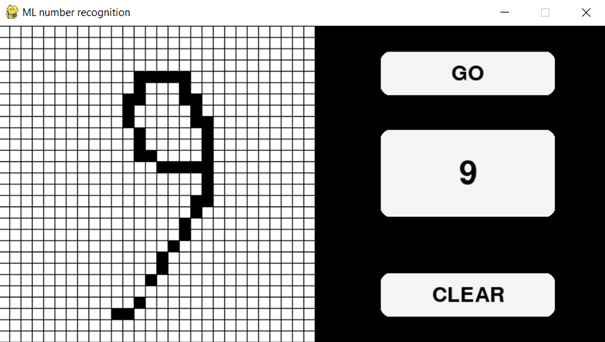
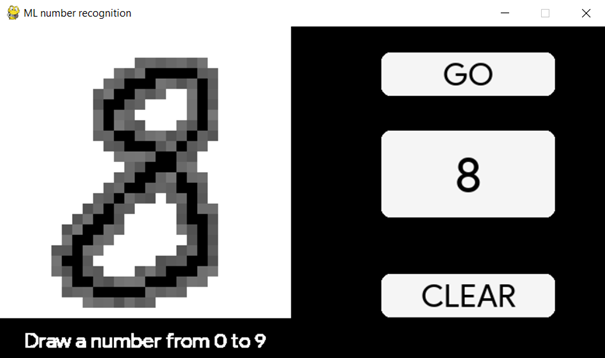
Add shading to drawing and helper text under grid

diff --git a/window.py b/window.py
@@ -6,9 +6,13 @@ import sys
 from main import neur
 
 
+#Screen
+HEIGHT = 385
+WIDTH = 700
+
 #Global variables for grid and pixel management
 CELL_SIZE = 12
-GRID_SPACE = 1
+GRID_SPACE = 0
 
 #Colors
 BLACK = (0, 0, 0)
@@ -16,44 +20,43 @@ WHITE = (255, 255, 255)
 OFF_WHITE = (245, 245, 245)
 GRAY = (200, 200, 200)
 
-#TODO Shading around a pixel for more realistic numbers
+#Font
+font_path = "data/ProductSans-Regular.ttf"
+
 class Pixel():
     def __init__(self, id):
         self.id = id
-        self.value = 0
-        self.connections = 0
+        self.value = 0.0
 
-    def clicked(self, data, i, j):
-        self.value = random.uniform(0.95, 1.0).double()
-        check_connections(data, i, j)
+    def clicked(self, data, grid, grid_x, grid_y):
+        self.value = random.uniform(0.90, 1.0)
+        grid[grid_y][grid_x] = BLACK
 
-    #Not in use yet: will be for shading the surrounding pixels
-    def check_connections(self):
-        if i > 0 and i < 27: a = True
-        if j > 0 and j < 27: b = True
-        # Chech lower, upper connection
-        if a:
-            if data[i-1][j].value > 0:
-                self.connections += 1
-            if data[i+1][j].value > 0:
-                self.connections += 1
-        # Check side connection
-        if b:
-            if data[i][j-1].value > 0:
-                self.connections += 1
-            if data[i][j+1].value > 0:
-                self.connections += 1
-        #Check diagonal connection
-        if a and b:
-            if data[i-1][j - 1].value > 0:
-                self.connections += 1
-            if data[i-1][j + 1].value > 0:
-                self.connections += 1
-            if data[i+1][j - 1].value > 0:
-                self.connections += 1
-            if data[i+1][j + 1].value > 0:
-                self.connections += 1
-        return self.connections
+        for i in range(grid_y-1, grid_y+2):
+            for j in range(grid_x-1, grid_x+2):
+                try:
+                    pixel_id = i * 28 + j
+                    pixel = data[0][pixel_id]
+                except IndexError:
+                    continue
+
+                if pixel.value == 0.0:
+                    pixel.value = random.uniform(0.4, 0.6)
+                if i != grid_y or j != grid_x:
+                    self.add_color_to_neighbour(pixel, grid, pixel_id)
+
+    def add_color_to_neighbour(self, pixel, grid, pixel_id):
+        #So the sides don't spill to the other side
+        if pixel.value > 0.89 or pixel_id % 28 == 0 or pixel_id % 28 == 27 \
+                and self.id - 28 != pixel_id and self.id + 28 != pixel_id:
+            return
+
+        graycolor_value = GRAY[0] * pixel.value
+        color = graycolor_value, graycolor_value, graycolor_value
+        row = int(pixel_id / 28)
+        column = int(pixel_id % 28)
+        grid[row][column] = color
+
 
 def create_data():
     #Create the numpy array
@@ -72,7 +75,7 @@ def draw_grid(screen, grid):
             pygame.draw.rect(screen, grid[row][column], rect)
 
 def draw_button(screen, position: tuple, height, title, t_size):
-    font = pygame.font.Font(None, t_size)
+    font = pygame.font.Font(font_path, t_size)
     rect = pygame.Rect(position[0], position[1], 200, height)
     pygame.draw.rect(screen, OFF_WHITE, rect, border_radius=10)
     title_surface = font.render(title, True, BLACK)
@@ -89,9 +92,14 @@ def consol():
     grid = [[WHITE for _ in range(28)] for _ in range(28)]
     #Initialise pygame
     pygame.init()
-    screen = pygame.display.set_mode((700, 385))
+    screen = pygame.display.set_mode((WIDTH, HEIGHT))
     pygame.display.set_caption('ML number recognition')
     clock = pygame.time.Clock()
+
+    text_size = 24
+    text_font = pygame.font.Font(font_path, text_size)
+    text = "Draw a number from 0 to 9"
+    text_surface = text_font.render(text, True, WHITE)
 
     #Running loop
     running = True
@@ -99,6 +107,9 @@ def consol():
         draw_grid(screen, grid)
         go_button = draw_button(screen, (440, 30),50, 'GO', 36)
         clear_button = draw_button(screen, (440, 285), 50, 'CLEAR', 36)
+
+        text_rect = text_surface.get_rect(center=(CELL_SIZE * 14, CELL_SIZE * 28 + (HEIGHT - CELL_SIZE * 28) / 2))
+        screen.blit(text_surface, text_rect)
 
         #Event handlings
         for event in pygame.event.get():
@@ -136,12 +147,9 @@ def consol():
                         CELL_SIZE,
                         CELL_SIZE
                     )
-                    grid[grid_y][grid_x] = BLACK
-
                     pixel_id = grid_y * 28 + grid_x
-                    data[0][pixel_id].value = random.uniform(0.8500, 0.99999)
-                    #TODO jelenleg egy tuple ként adja ki melyik grid re nyomtál rá, ebből ki lehet szedni melyik pixelnek
-                    # kell feketének lennie és át lehet nyomni a value ját, ezt a colort kell valahogy átadni a rajzolásnak
+                    pixel = data[0][pixel_id]
+                    pixel.clicked(data, grid, grid_x, grid_y)
 
         pygame.display.flip()
     pygame.quit()

diff --git a/main.py b/main.py
@@ -149,10 +149,10 @@ nr_correct = 0
 loss_list = []
 acc_list = []
 
+print("Starting the learning")
 
 #Going through the data epoch times
 for epoch in range(epochs):
-    print("Starting the learning")
     nr_correct = 0
     total_samples = 0
     #Going through the mini-batches
